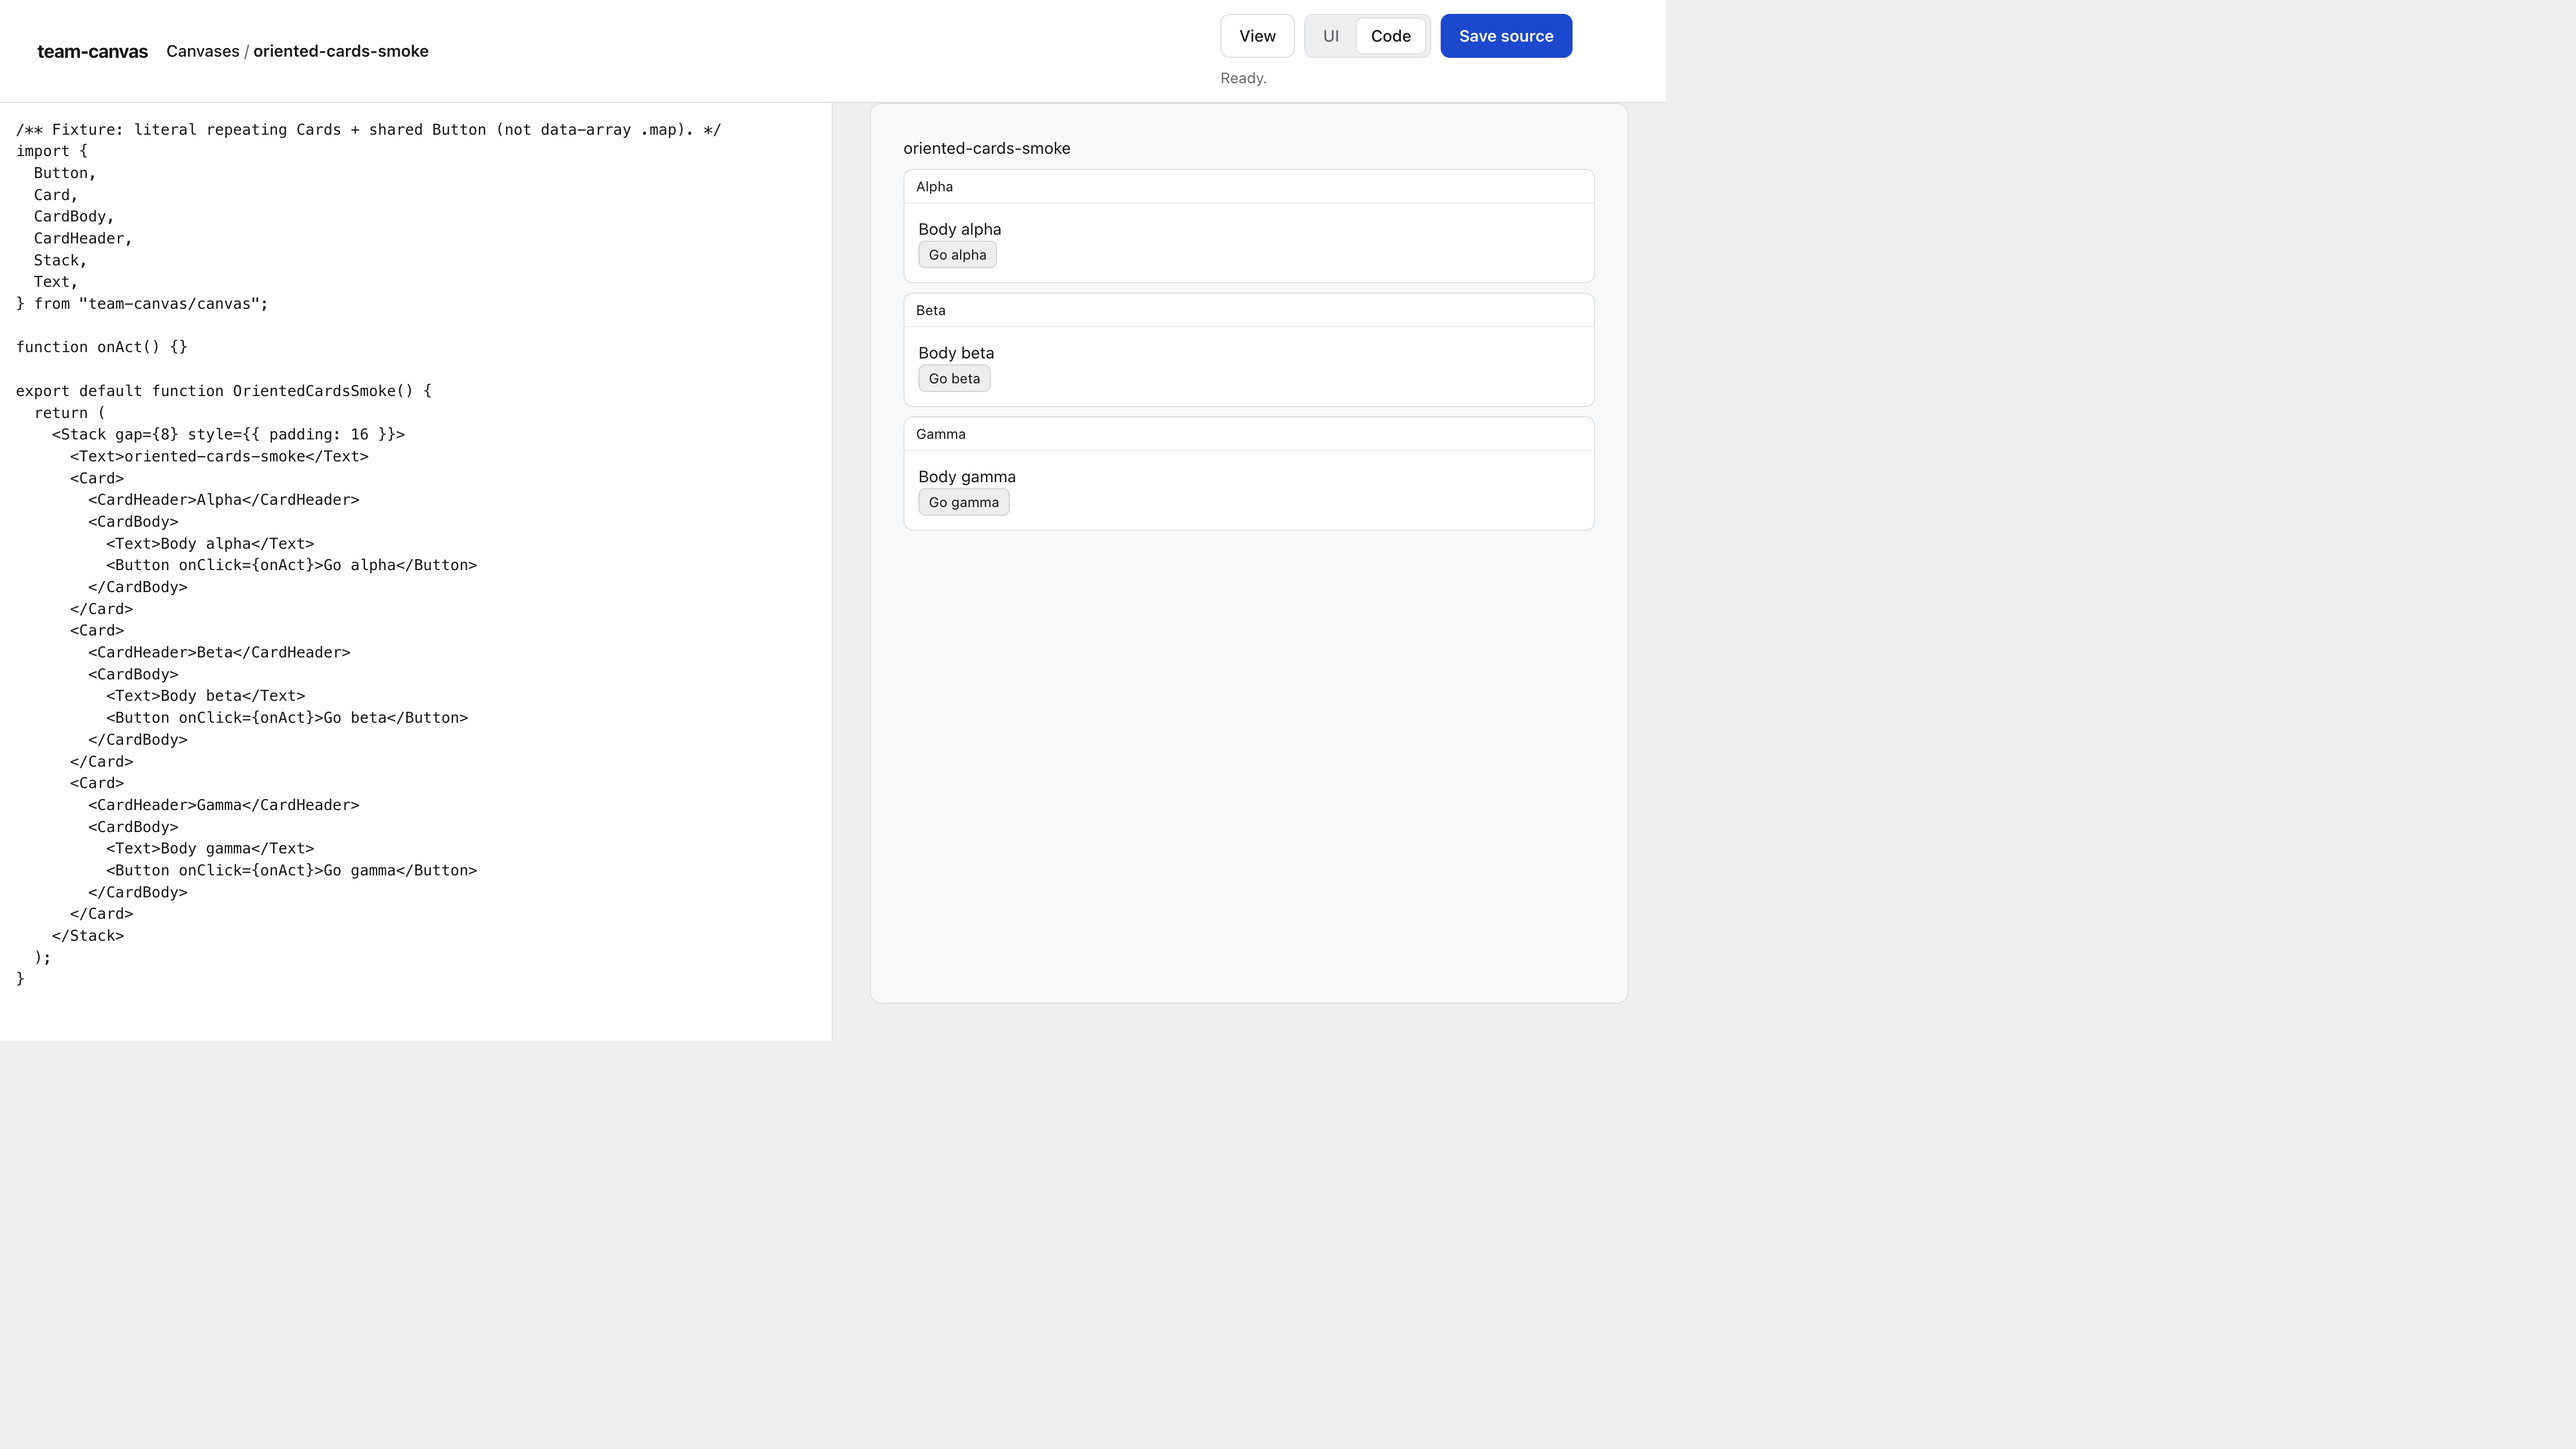
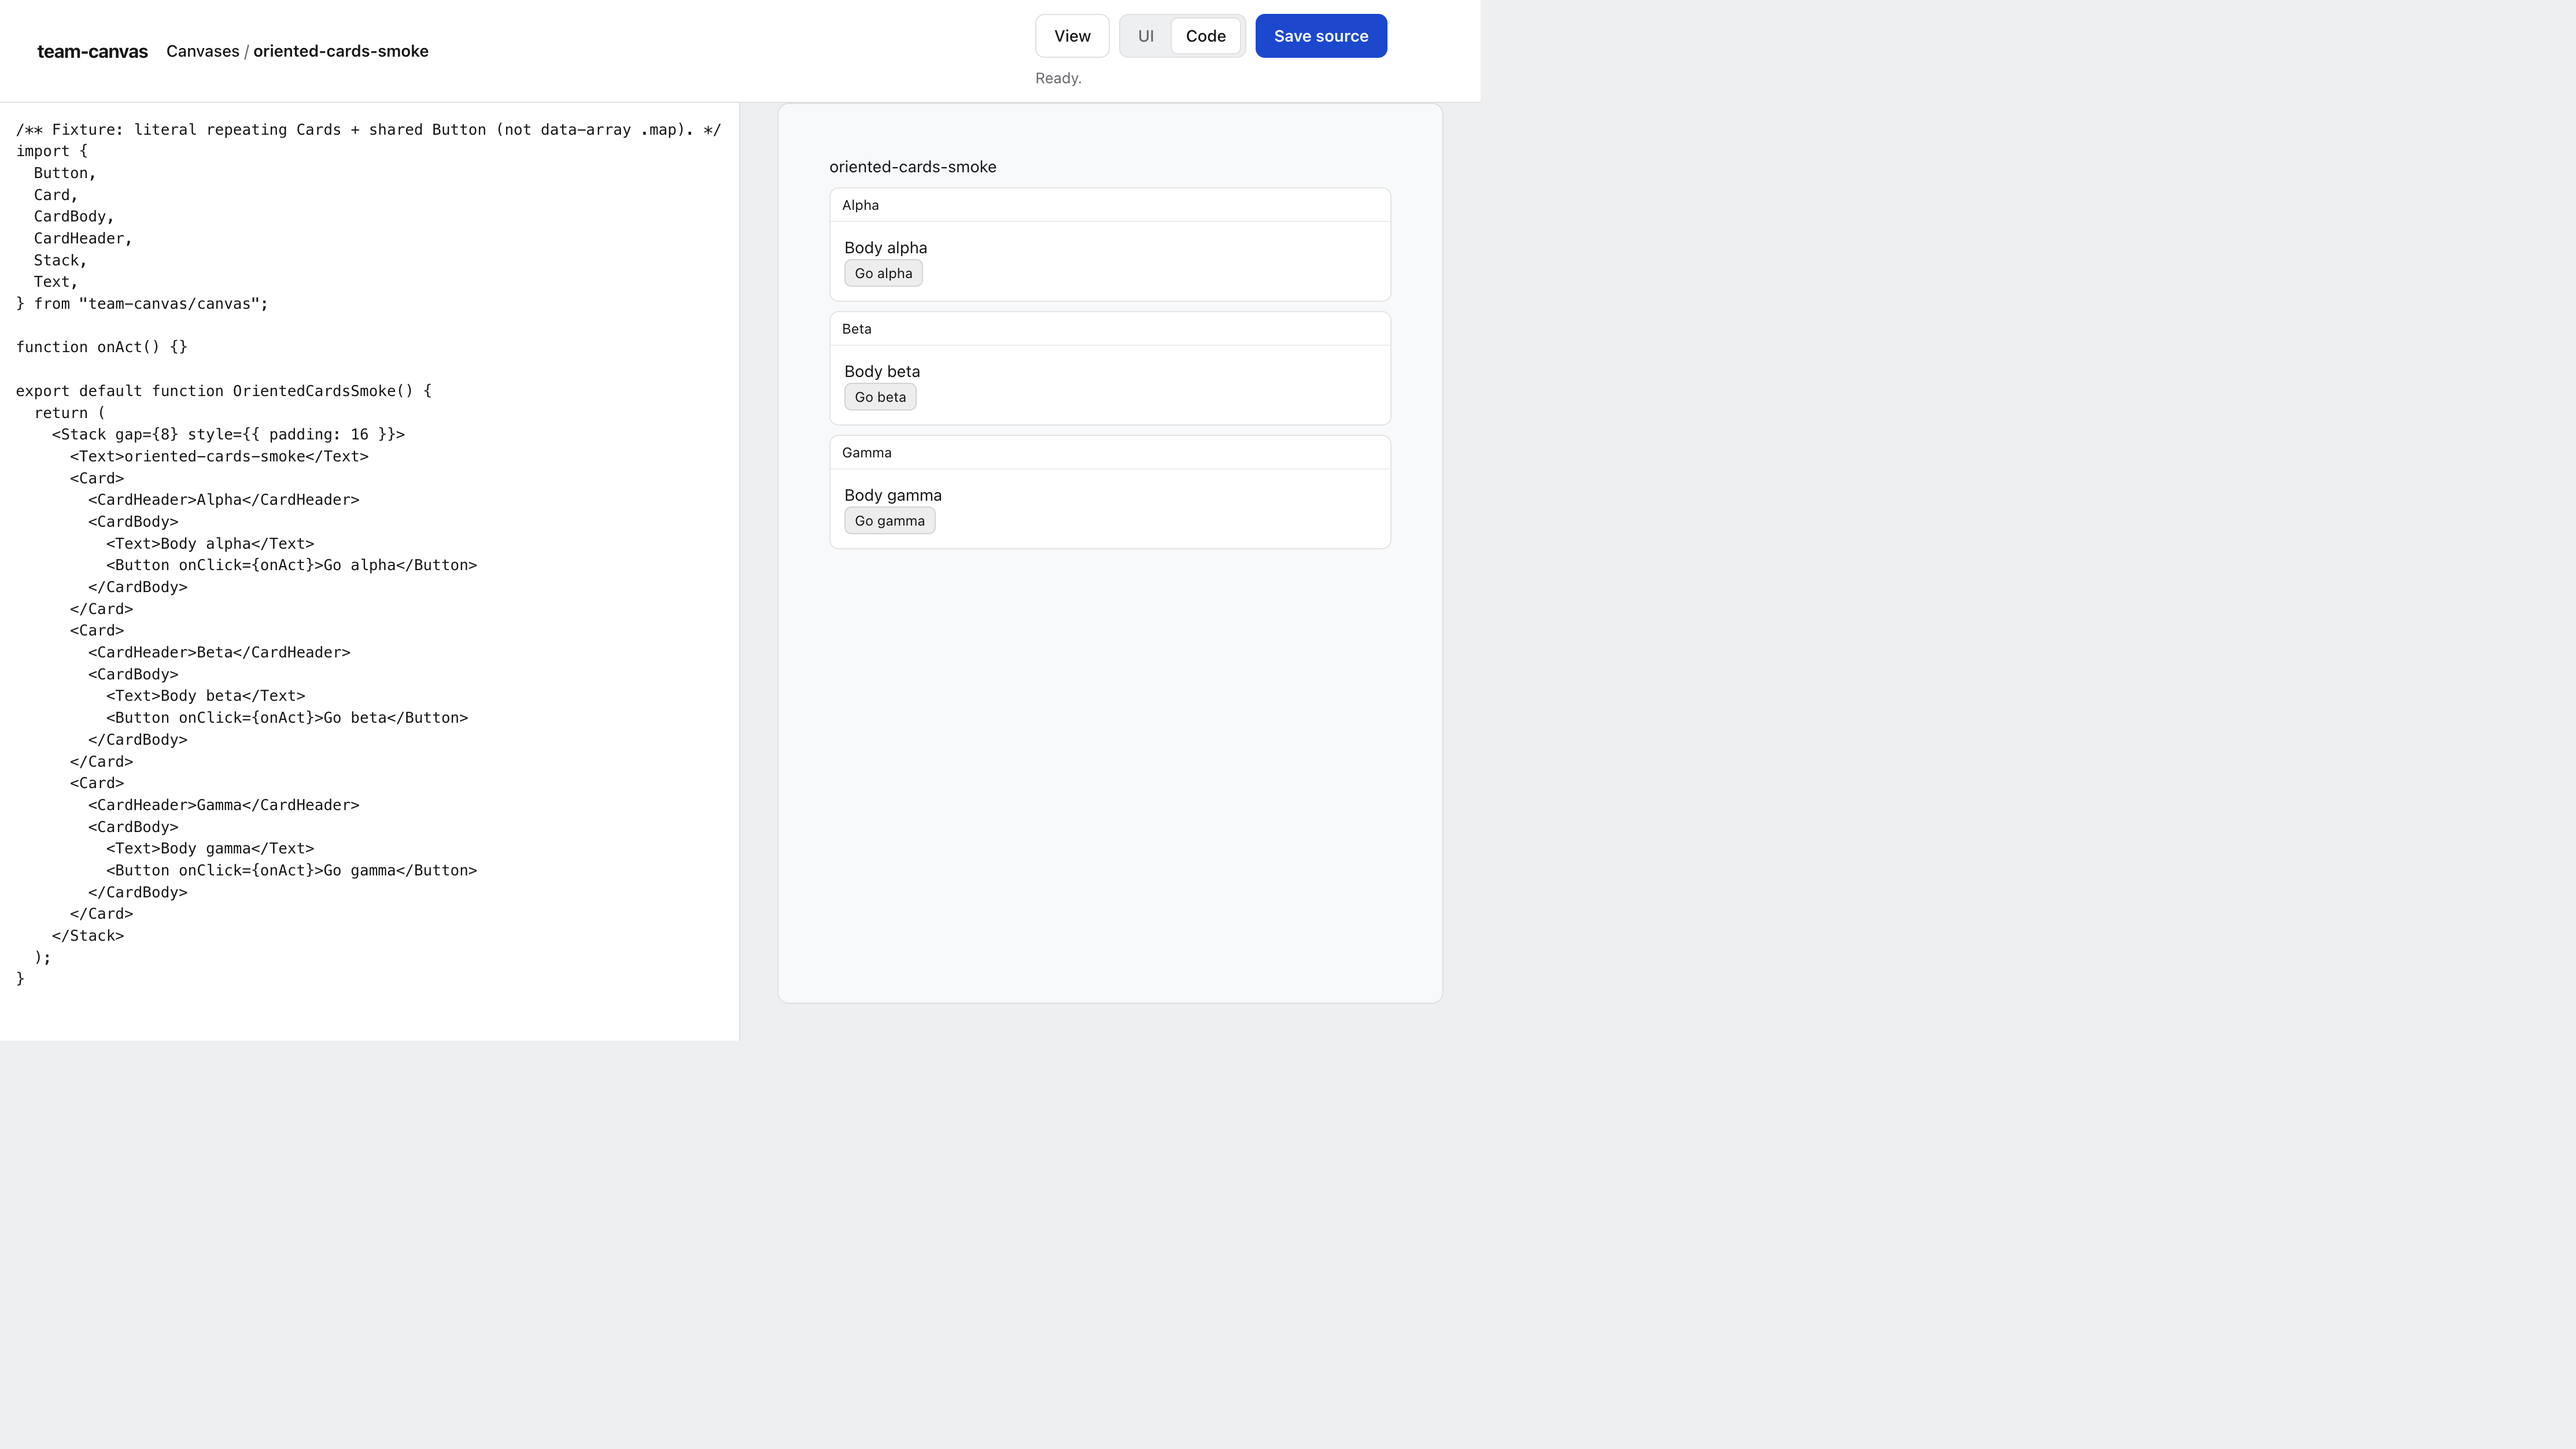
fix: padding inside canvas stage, wider stage

diff --git a/src/adapters/http/shell.test.ts b/src/adapters/http/shell.test.ts
@@ -125,9 +125,10 @@ describe("host-ui shell HTML markers", () => {
     expect(edit).not.toContain("Raw source");
     expect(edit).toContain("Oriented Add");
     expect(edit).toContain("Fill slots");
-    // Stage / #root padding facts unchanged (do not restyle SDK).
+    // Stage gutter stays 0; #root owns content inset via --stage-pad (not SDK).
     expect(edit).toMatch(/\.stage\s*\{[^}]*padding:\s*0;/s);
-    expect(edit).toMatch(/#root\s*\{[^}]*padding:\s*0\.75rem;/s);
+    expect(edit).toMatch(/--stage-pad:\s*clamp\(/);
+    expect(edit).toMatch(/#root\s*\{[^}]*padding:\s*var\(--stage-pad\);/s);
     // Split view: preview stage before the edit column in document order.
     const chromeAt = edit.indexOf("data-edit-chrome");
     const stageAt = edit.indexOf('class="stage"');

diff --git a/src/adapters/http/shell.ts b/src/adapters/http/shell.ts
@@ -26,7 +26,8 @@ const chrome = String.raw`
   --radius-sm: 0.5rem;
   --control-h: 2.375rem;
   --content-max: 76rem;
-  --stage-max: 64rem;
+  --stage-max: 80rem;
+  --stage-pad: clamp(1.25rem, 2.5vw, 1.75rem);
   --sidebar-w: 22rem;
   --font: ui-sans-serif, system-ui, -apple-system, BlinkMacSystemFont, "Segoe UI", sans-serif;
   --mono: ui-monospace, SFMono-Regular, Menlo, Monaco, Consolas, monospace;
@@ -407,7 +408,7 @@ label.btn:focus-visible {
 }
 #root {
   min-height: 4rem;
-  padding: 0.75rem;
+  padding: var(--stage-pad);
   background: ${canvasPaletteLight.editor};
 }
 @media (prefers-color-scheme: dark) {

diff --git a/src/adapters/http/http-server.test.ts b/src/adapters/http/http-server.test.ts
@@ -602,7 +602,8 @@ export default function Solo() {
     expect(editHtml).toContain('/watch')
     expect(editHtml).toContain(JSON.stringify('demo'))
     expect(editHtml).toMatch(/\.stage\s*\{[^}]*padding:\s*0;/s)
-    expect(editHtml).toMatch(/#root\s*\{[^}]*padding:\s*0\.75rem;/s)
+    expect(editHtml).toMatch(/--stage-pad:\s*clamp\(/)
+    expect(editHtml).toMatch(/#root\s*\{[^}]*padding:\s*var\(--stage-pad\);/s)
 
     const missingEdit = await fetch(`${server.url}/canvas/no-such/edit`)
     expect(missingEdit.status).toBe(404)
